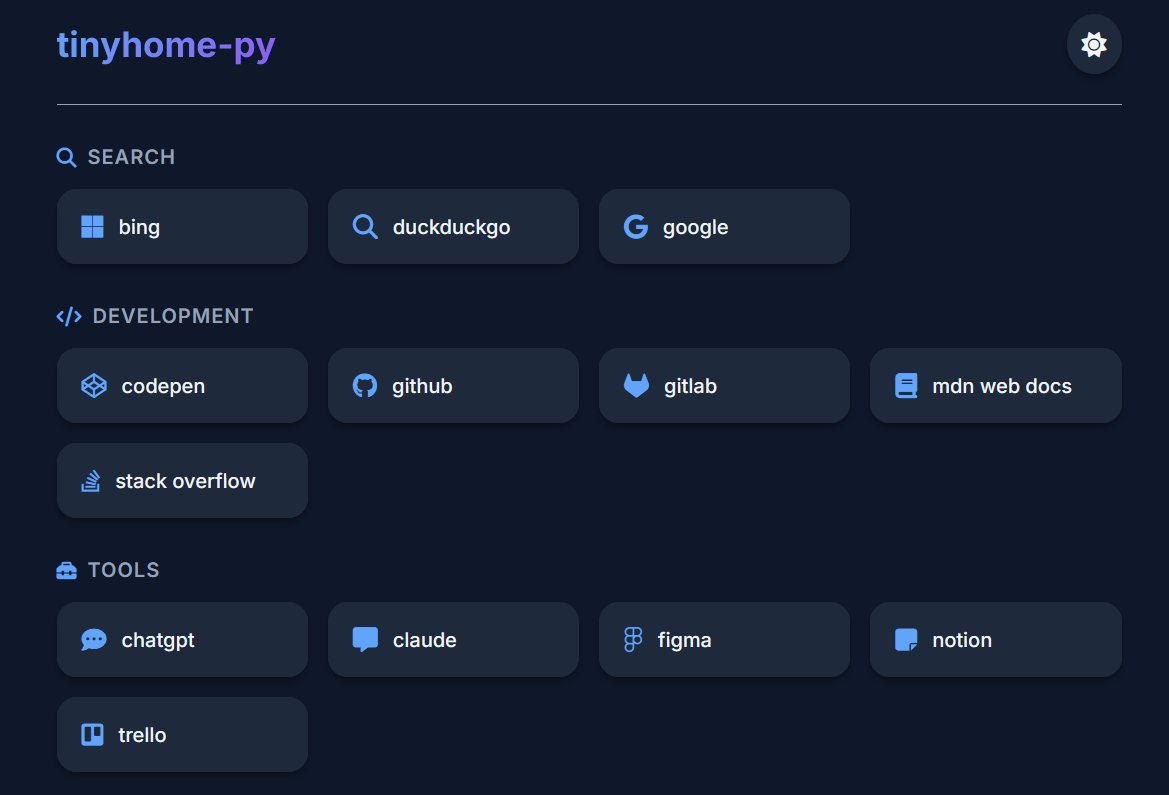
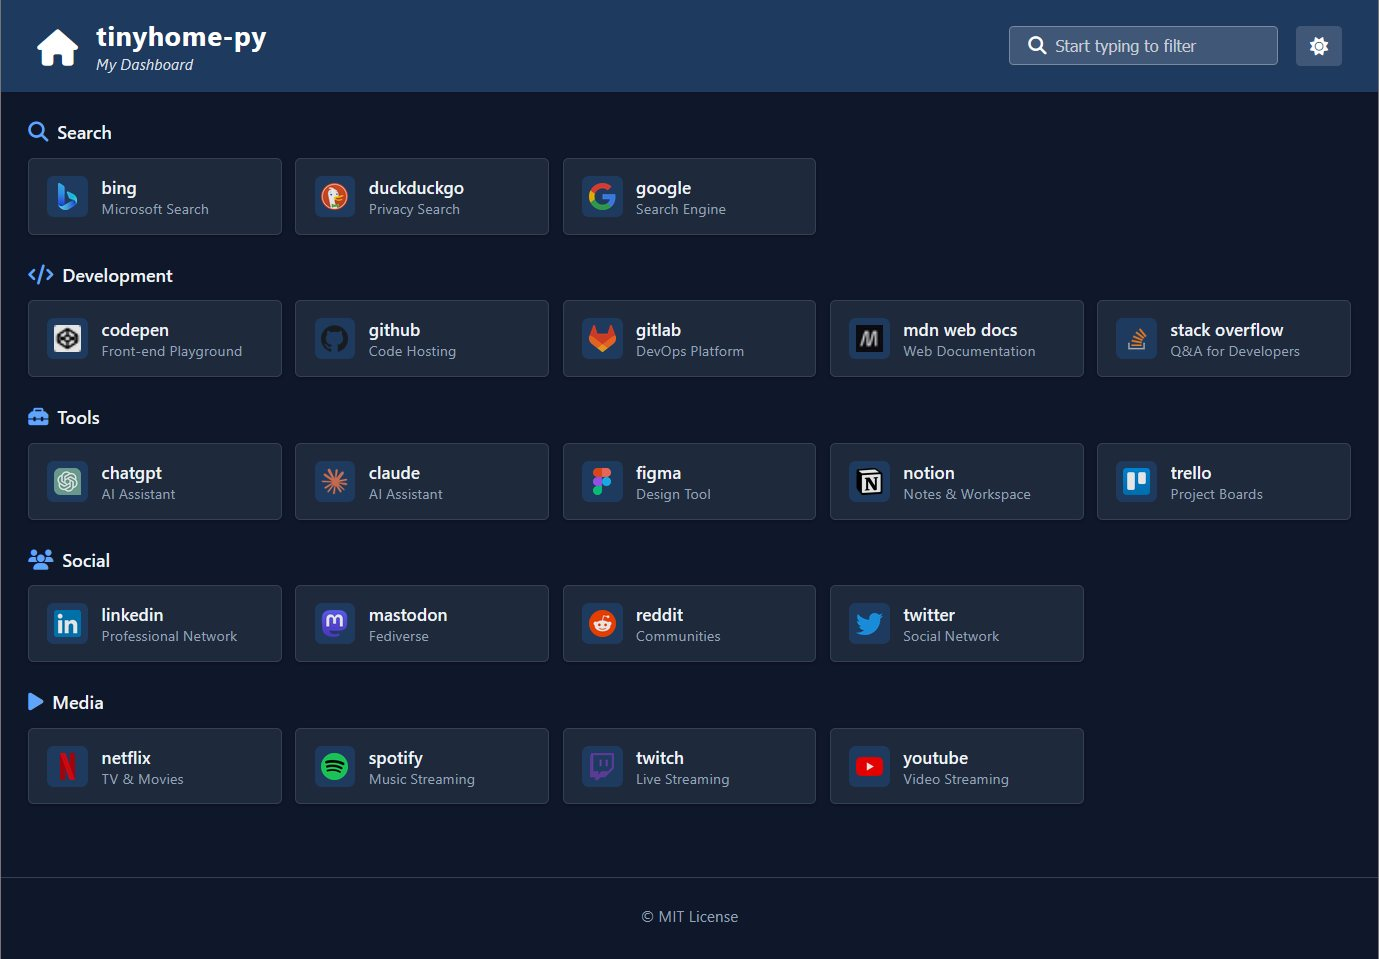
UI changes and more features

diff --git a/README.md b/README.md
@@ -2,7 +2,7 @@
 
 A minimal, modern dashboard generator. Two files, no dependencies, beautiful output.
 
-Inspired by [bderenzo/tinyhome](https://github.com/bderenzo/tinyhome) — a brilliant shell-based static homepage generator. This Python rewrite adds a modern UI, dark mode toggle, and simplified INI configuration while keeping the same spirit of simplicity.
+Inspired by [bderenzo/tinyhome](https://github.com/bderenzo/tinyhome) — a brilliant shell-based static homepage generator — and [Dashy](https://dashy.to/) — a feature-rich self-hosted dashboard. This Python rewrite combines tinyhome's simplicity with a Dashy-inspired UI, adding dark mode, live search, flexible icons, and INI configuration.
 
 Perfect for homelabs, internal intranets, self-hosted dashboards, or anywhere you need a clean landing page for your links.
 
@@ -20,10 +20,14 @@ Perfect for homelabs, internal intranets, self-hosted dashboards, or anywhere yo
 - **Single Python script** — no frameworks, no build tools
 - **INI config file** — cleaner than CSV, easy to read and edit
 - **Dark/light mode** — toggle button + respects system preference
+- **Live search filter** — instantly filter cards as you type
 - **Auto-sorted sections** — items alphabetized automatically
 - **Responsive grid** — works on desktop and mobile
-- **Modern UI** — gradient borders, glow effects, smooth animations
-- **Font Awesome 6** — full icon library via CDN
+- **Modern UI** — clean cards with subtle hover effects
+- **Flexible icons** — Font Awesome, Dashboard Icons, Simple Icons, favicons, emojis, or custom URLs
+- **Optional descriptions** — add context to any link
+- **Customizable header** — title, subtitle, and logo
+- **Customizable footer** — add copyright, contact info, etc.
 - **Zero local assets** — fonts and icons load from CDN
 
 ## Quick Start
@@ -45,74 +49,97 @@ Edit `config.ini` to customize your dashboard:
 ```ini
 [settings]
 title = My Dashboard
+subtitle = Intranet of Things
+logo = server
+footer = © 2025 My Company
 
 [Development]
 icon = code
-GitHub = fab github, https://github.com
-GitLab = fab gitlab, https://gitlab.com
-Stack Overflow = fab stack-overflow, https://stackoverflow.com
+GitHub = hl-github, https://github.com, Code Hosting
+GitLab = hl-gitlab, https://gitlab.com, DevOps Platform
+Stack Overflow = hl-stackoverflow, https://stackoverflow.com, Q&A for Developers
 
 [Tools]
 icon = toolbox
-Claude = message, https://claude.ai
-Notion = note-sticky, https://notion.so
+Claude = hl-claude, https://claude.ai, AI Assistant
+Notion = hl-notion, https://notion.so, Notes & Workspace
 ```
 
 ### Config format
 
 ```
+[settings]
+title = Dashboard Title
+subtitle = Optional subtitle (italic, under title)
+logo = icon-for-header
+footer = Optional footer text
+
 [Section Name]
 icon = section-icon
-Link Name = icon-name, https://example.com
+Link Name = icon, https://example.com, Optional description
 ```
 
-### Icons
+## Icons
 
-Icons use [Font Awesome 6](https://fontawesome.com/icons). Two types:
+Multiple icon sources are supported:
 
-| Type | Prefix | Example |
-|------|--------|---------|
-| Solid (default) | none | `server`, `code`, `toolbox` |
-| Brands | `fab` | `fab github`, `fab youtube` |
+| Prefix | Example | Source |
+|--------|---------|--------|
+| `hl-` | `hl-zabbix`, `hl-proxmox`, `hl-idrac` | [Dashboard Icons](https://github.com/walkxcode/dashboard-icons) |
+| `si-` | `si-zabbix`, `si-cloudflare` | [Simple Icons](https://simpleicons.org) |
+| `mdi-` | `mdi-server`, `mdi-network` | Material Design Icons |
+| `url` | `url https://example.com/icon.png` | Direct URL |
+| `favicon` | `favicon google.com` | Auto-grab site favicon |
+| `emoji` | `emoji 🚀` | Emoji |
+| `fab` | `fab github`, `fab youtube` | Font Awesome Brands |
+| `fas` | `fas server`, `fas code` | Font Awesome Solid |
+| *(default)* | `server`, `code`, `toolbox` | Font Awesome Solid |
 
-Browse available icons at [fontawesome.com/icons](https://fontawesome.com/icons)
+### Icon resources
+
+- **Dashboard Icons** (recommended for homelab): [Browse PNG icons](https://github.com/walkxcode/dashboard-icons/tree/main/png)
+- **Simple Icons** (brand logos): [simpleicons.org](https://simpleicons.org)
+- **Font Awesome**: [fontawesome.com/icons](https://fontawesome.com/icons)
 
 ## Example config.ini
 
 ```ini
 [settings]
-title = My Dashboard
+title = tinyhome-py
+subtitle = My Dashboard
+logo = home
+footer = © MIT License
 
 [Search]
 icon = magnifying-glass
-Google = fab google, https://www.google.com
-DuckDuckGo = magnifying-glass, https://duckduckgo.com
+Google = hl-google, https://www.google.com, Search Engine
+DuckDuckGo = hl-duckduckgo, https://duckduckgo.com, Privacy Search
 
 [Development]
 icon = code
-GitHub = fab github, https://github.com
-GitLab = fab gitlab, https://gitlab.com
-Stack Overflow = fab stack-overflow, https://stackoverflow.com
-MDN Web Docs = book, https://developer.mozilla.org
+GitHub = hl-github, https://github.com, Code Hosting
+GitLab = hl-gitlab, https://gitlab.com, DevOps Platform
+Stack Overflow = hl-stackoverflow, https://stackoverflow.com, Q&A for Developers
+MDN Web Docs = hl-mdn, https://developer.mozilla.org, Web Documentation
 
 [Tools]
 icon = toolbox
-ChatGPT = comment-dots, https://chat.openai.com
-Claude = message, https://claude.ai
-Notion = note-sticky, https://notion.so
-Trello = fab trello, https://trello.com
+ChatGPT = hl-chatgpt, https://chat.openai.com, AI Assistant
+Claude = hl-claude, https://claude.ai, AI Assistant
+Notion = hl-notion, https://notion.so, Notes & Workspace
+Trello = hl-trello, https://trello.com, Project Boards
 
 [Social]
 icon = users
-Reddit = fab reddit, https://reddit.com
-Twitter = fab x-twitter, https://twitter.com
-LinkedIn = fab linkedin, https://linkedin.com
+Reddit = hl-reddit, https://reddit.com, Communities
+Twitter = hl-twitter, https://twitter.com, Social Network
+LinkedIn = hl-linkedin, https://linkedin.com, Professional Network
 
 [Media]
 icon = play
-YouTube = fab youtube, https://youtube.com
-Spotify = fab spotify, https://spotify.com
-Twitch = fab twitch, https://twitch.tv
+YouTube = hl-youtube, https://youtube.com, Video Streaming
+Spotify = hl-spotify, https://spotify.com, Music Streaming
+Twitch = hl-twitch, https://twitch.tv, Live Streaming
 ```
 
 ## Requirements
@@ -130,21 +157,13 @@ tinyhome/
 └── README.md
 ```
 
-## Why a rewrite?
-
-The original [bderenzo/tinyhome](https://github.com/bderenzo/tinyhome) is a fantastic minimal solution using pure shell. This Python reimplementation trades shell portability for:
-
-- **Faster generation** — Python vs subshell overhead
-- **INI config** — no more `END` markers or CSV quirks
-- **Modern styling** — gradient borders, glassmorphism options, animations
-- **Dark mode toggle** — click to switch, remembers preference
-- **CDN-only assets** — no local css/webfonts folders needed
-
-If you want maximum portability with zero dependencies, use the original. If you want a prettier output with Python available, use this one.
-
 ## Credits
 
 - Original concept: [bderenzo/tinyhome](https://github.com/bderenzo/tinyhome)
-- Icons: [Font Awesome](https://fontawesome.com)
-- Font: [Inter](https://fonts.google.com/specimen/Inter)
+- UI inspiration: [Dashy](https://dashy.to/)
+- Icons: [Font Awesome](https://fontawesome.com), [Dashboard Icons](https://github.com/walkxcode/dashboard-icons), [Simple Icons](https://simpleicons.org)
+- Font: [Segoe UI](https://learn.microsoft.com/en-us/typography/font-list/segoe-ui)
 
+## License
+
+MIT
